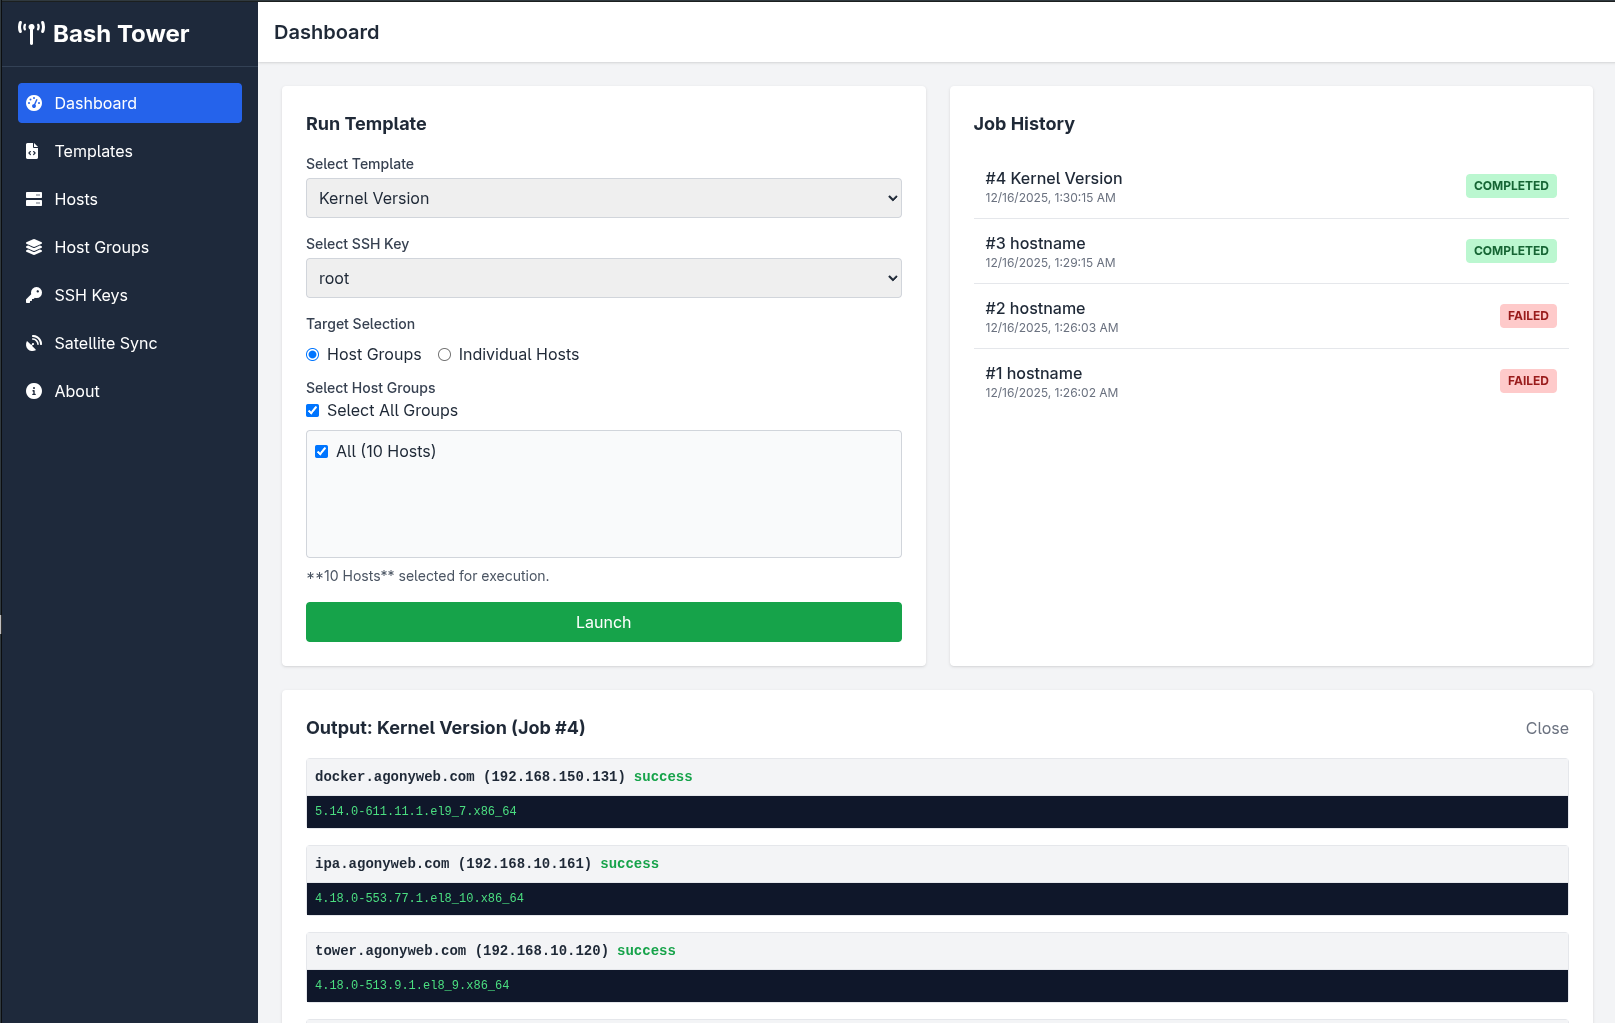
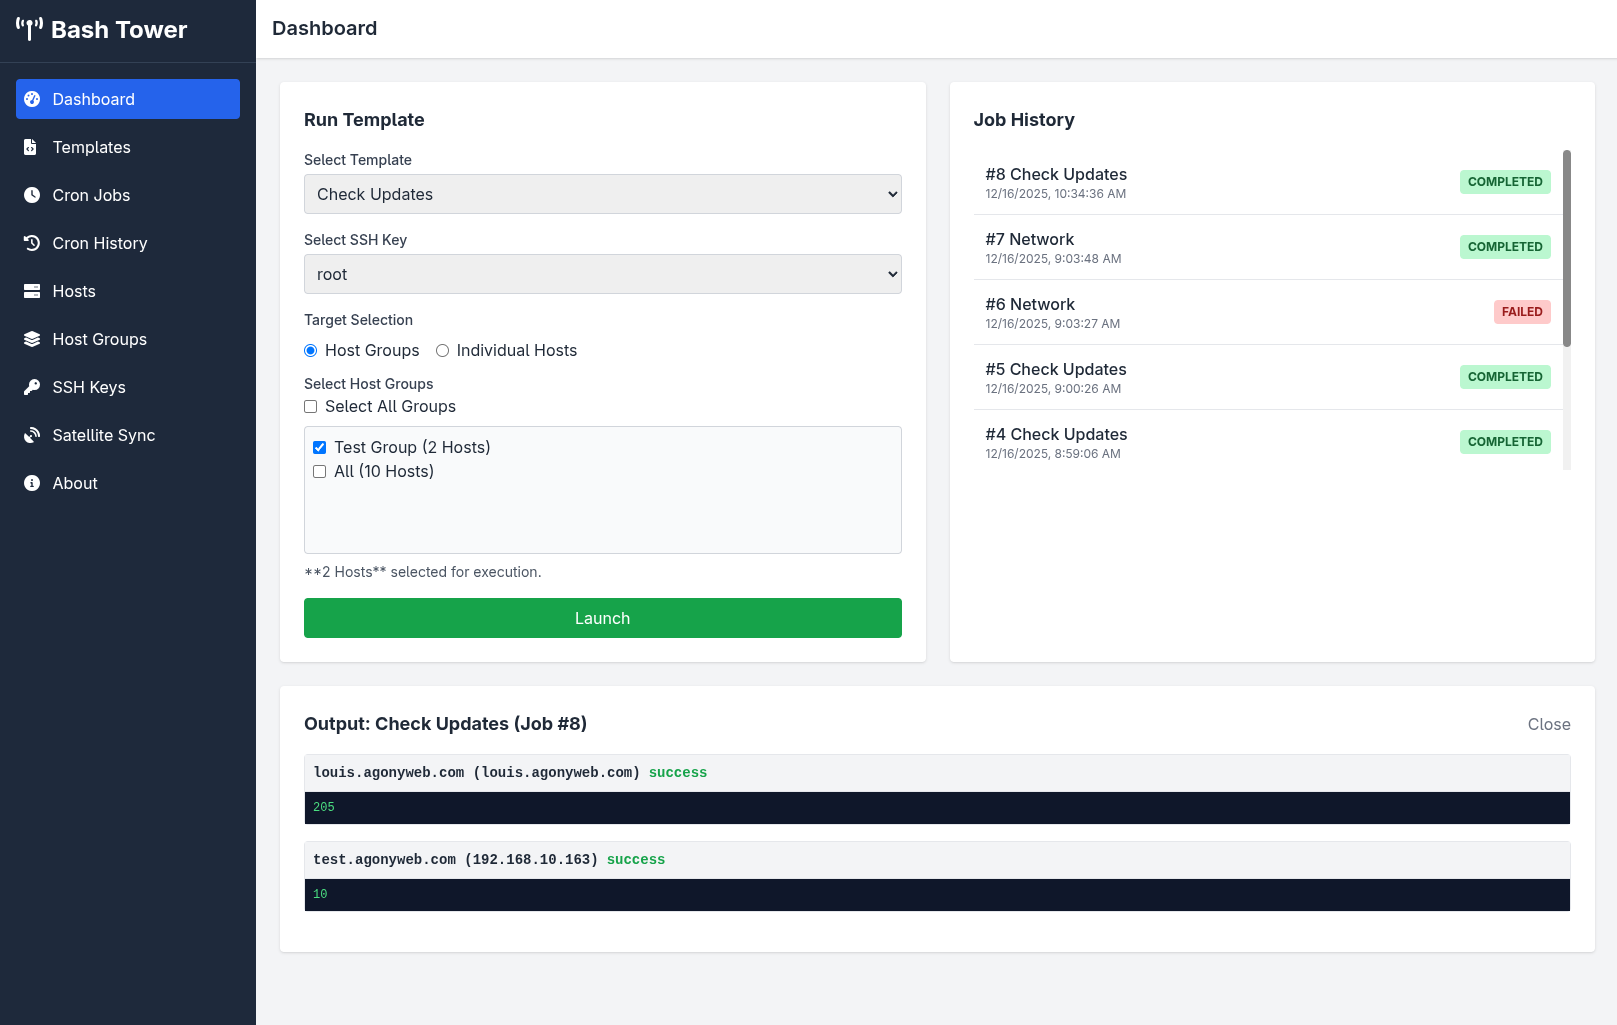
init

diff --git a/README.md b/README.md
@@ -104,9 +104,15 @@ flask run --host=0.0.0.0 --port=1008
 - Add hosts – Provide name, hostname/IP, SSH user, and port.
 - Add SSH keys – Paste a private key (RSA/PEM).
 - Create a template – Write a Bash script, give it a name, and save.
-- Run a job – Select a template, pick one or more hosts/groups, and click Run.
+- Run a job – Select a template, pick one or more hosts/groups, and click **Run**.
 - Monitor output – The UI polls the back‑end for logs; errors can be sent to the built‑in analyzer.
-- Satellite sync (optional) – Fill the Satellite URL and credentials, then click Sync Hosts Now.
+- **Cron Jobs** – Use the “Schedule” tab to create recurring jobs.  
+  1. Open the **Templates** view and click **Schedule** next to the desired template.  
+  2. Choose the target hosts or groups.  
+  3. Enter a cron expression (e.g., `0 2 * * *` for daily at 02:00 UTC).  
+  4. Click **Save Schedule**.  
+  The job will now run automatically according to the cron schedule and its history will appear in the **Job History** view.
+- Satellite sync (optional) – Fill the Satellite URL and credentials, then click **Sync Hosts Now**.
 
 
 
